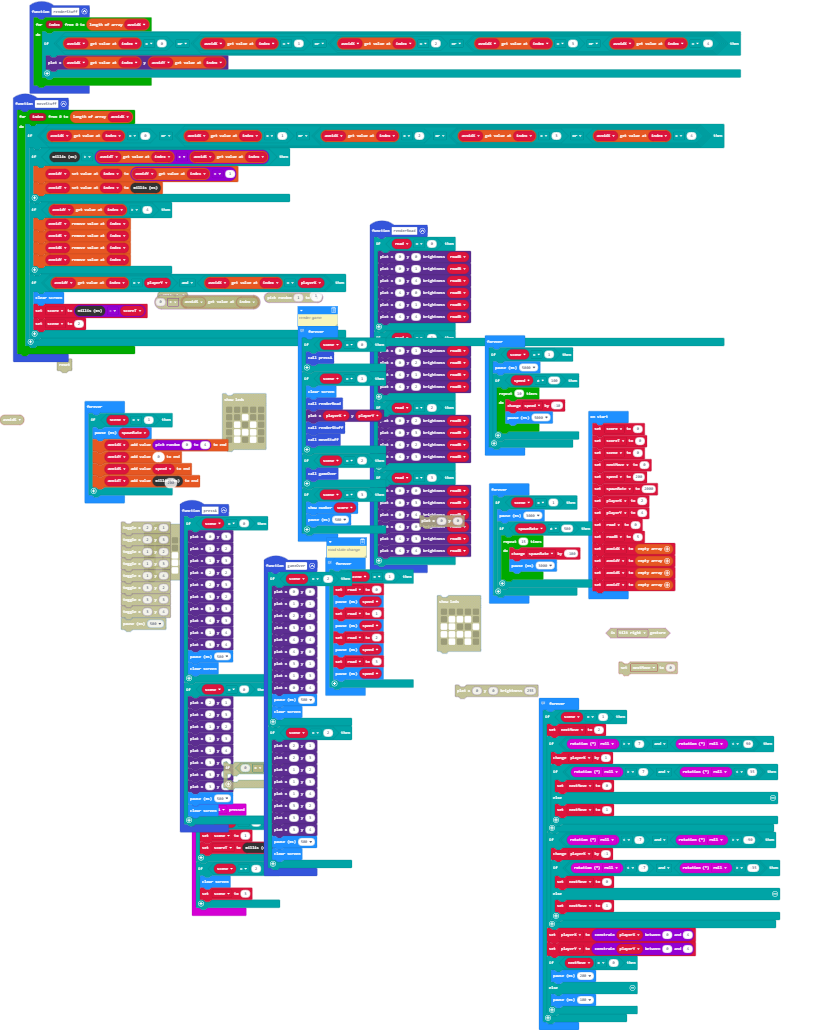
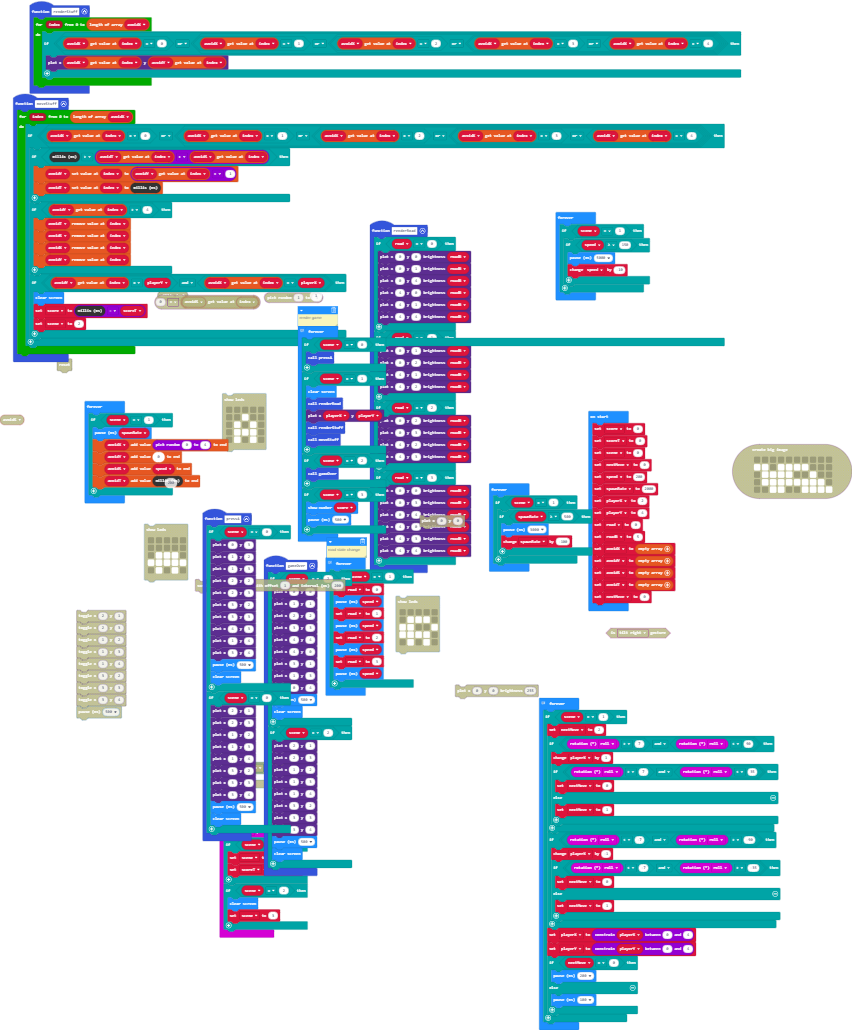
Update main.blocks, main.ts

diff --git a/main.ts b/main.ts
@@ -146,6 +146,15 @@ avoidX = []
 avoidY = []
 avoidS = []
 avoidT = []
+nextMove = 0
+basic.forever(function () {
+    if (scene == 1) {
+        if (speed >= 150) {
+            basic.pause(5000)
+            speed += -10
+        }
+    }
+})
 // render game
 basic.forever(function () {
     if (scene == 0) {
@@ -168,17 +177,6 @@ basic.forever(function () {
 })
 basic.forever(function () {
     if (scene == 1) {
-        basic.pause(5000)
-        if (speed != 100) {
-            for (let index = 0; index < 10; index++) {
-                speed += -10
-                basic.pause(5000)
-            }
-        }
-    }
-})
-basic.forever(function () {
-    if (scene == 1) {
         basic.pause(spawnRate)
         avoidX.push(randint(0, 4))
         avoidY.push(0)
@@ -188,12 +186,9 @@ basic.forever(function () {
 })
 basic.forever(function () {
     if (scene == 1) {
-        basic.pause(3000)
-        if (spawnRate != 500) {
-            for (let index = 0; index < 15; index++) {
-                spawnRate += -100
-                basic.pause(3000)
-            }
+        if (spawnRate >= 500) {
+            basic.pause(3000)
+            spawnRate += -100
         }
     }
 })
